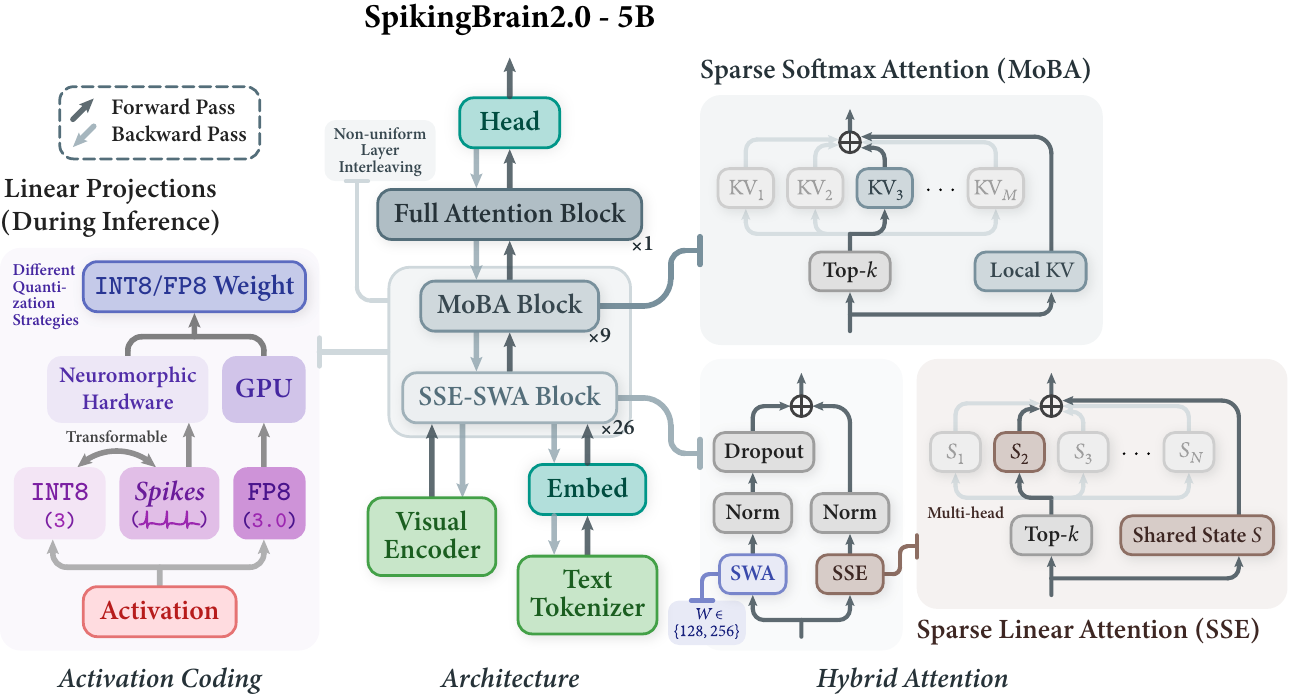
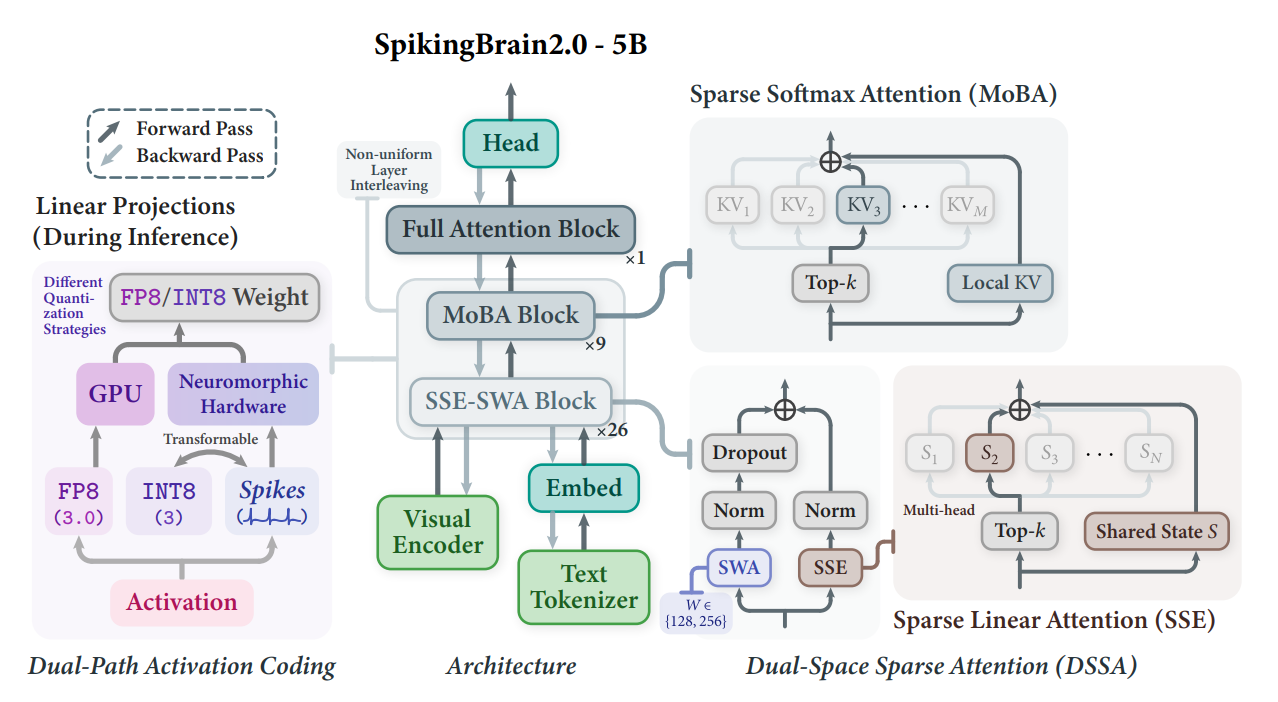
update readme

Changed region(s): [[0.0, 0.0, 1.0, 0.9928], [0.5188, 0.0903, 0.8545, 0.4814], [0.5798, 0.8725, 0.9765, 0.9928]]

diff --git a/README.md b/README.md
@@ -1,7 +1,6 @@
 # SpikingBrain2.0：Brain-Inspired Foundation Models 
-**Hybrid Sparse Attention, Dual Quantization Paths, and Multimodal Conversion**
+**Efffcient Long-Context, Cross-Platform Inference**
 
-📄 Technical Report: [English]()  
 🚀 Arxiv: [arXiv:](https://www.arxiv.org/abs/)  
 🧩 Models: [Available Models](#available-models)      
 
@@ -9,9 +8,11 @@
 
 ## About SpikingBrain2.0
 
-SpikingBrain2.0 is a brain-inspired hybrid model family for long-context language modeling and vision-language modeling. Building on  [SpikingBrain1.0](https://github.com/BICLab/SpikingBrain-7B), it adopts an inter-layer hybrid architecture that combines Sparse Softmax Attention ([MoBA](https://github.com/MoonshotAI/MoBA)) with Sparse Linear Attention ([SSE](https://openreview.net/pdf?id=R6DrJ4tnGV)), forming a sparse-memory design that better balances modeling quality, long-context efficiency, and memory usage while alleviating contextual interference in long sequences. It is further supported by a lightweight Transformer-to-Hybrid (T2H) conversion pipeline, enabling both LLMs and VLMs to be adapted from open-source Qwen3 backbones at very low cost; With fewer than 7k A100 GPU hours, it recovers most of the backbone models’ capabilities and achieves competitive results across general, reasoning, and vision-language benchmarks. 
+SpikingBrain2.0 (SpB2.0) is a brain-inspired hybrid model family for efficient long-context language modeling and vision-language modeling. Building on [SpikingBrain1.0](https://github.com/BICLab/SpikingBrain-7B), SpB2.0 introduces **Dual-Space Sparse Attention (DSSA)**, an inter-layer hybrid architecture that combines Sparse Softmax Attention ([MoBA](https://arxiv.org/abs/2502.13189)) with Sparse Linear Attention ([SSE](https://arxiv.org/abs/2507.16577)). This sparse-memory design improves the performance-efficiency trade-off for long-context modeling while reducing memory usage and alleviating contextual interference in long sequences.
 
-Beyond capability recovery, SpikingBrain2.0 delivers substantial deployment advantages, including up to 10.13× TTFT speedup at 4M context length, support for 10M+ token serving on 8×A100 GPUs, and dual FP8 and INT8-Spiking quantization paths for both practical GPU acceleration and neuromorphic-friendly execution. Notably, the INT8-Spiking path achieves 64.31% spike-sequence sparsity with minimal accuracy loss, while hardware simulation shows about 46.5%–48.1% power reduction, making SpikingBrain2.0 a lightweight, scalable, and energy-efficient solution for building efficient long-context foundation models.
+SpB2.0 further provides an optimized **Transformer-to-Hybrid (T2H)** conversion pipeline with dual conversion paths for both LLMs and VLMs. Starting from open-source Qwen3 backbones, SpB2.0-5B and SpB2.0-VL-5B recover most of the capabilities of their base Transformer models with fewer than 7k A100 GPU hours of additional training, achieving competitive performance across general, reasoning, long-context, and vision-language benchmarks.
+
+Beyond capability recovery, SpB2.0 offers substantial deployment advantages. Under sequence parallelism, it achieves up to **10.13× TTFT speedup** at 4M context length; under vLLM, it supports serving beyond **10M tokens on 8 A100 GPUs**, where the full-attention baseline exceeds memory limits. SpB2.0 also supports two quantization paths: **FP8** inference for practical acceleration on modern GPUs, reaching **2.52× speedup** at 250k context length, and **INT8-Spiking** coding for sparse event-driven execution on neuromorphic hardware. The INT8-Spiking path achieves **64.31% spike-sequence sparsity** with minimal accuracy loss, while hardware simulation shows **70.6% area reduction** and **46.5% power reduction** at 500MHz.
 
 ![](assets/fig1.png)
 
@@ -36,7 +37,7 @@ This repository includes two important local dependency trees.
 
 `flash-linear-attention_dev/` contains a modified version of flash-linear-attention with added SSE support.
 
-In SpikingBrain2.0, [SSE](https://openreview.net/pdf?id=R6DrJ4tnGV) is built as a **Sparse State Expansion** mechanism over [Gated DeltaNet](https://openreview.net/pdf?id=r8H7xhYPwz). By extending the compressed recurrent memory of Gated DeltaNet into multiple sparsely updated state partitions, SSE improves effective memory capacity and long-context retrieval while largely preserving the efficiency benefits of recurrent linear modeling.
+In SpikingBrain2.0, [SSE](https://arxiv.org/abs/2507.16577) is built as a **Sparse State Expansion** mechanism over [Gated DeltaNet](https://arxiv.org/abs/2412.06464). By extending the compressed recurrent memory of Gated DeltaNet into multiple sparsely updated state partitions, SSE improves effective memory capacity and long-context retrieval while largely preserving the efficiency benefits of recurrent linear modeling.
 
 ---
 
